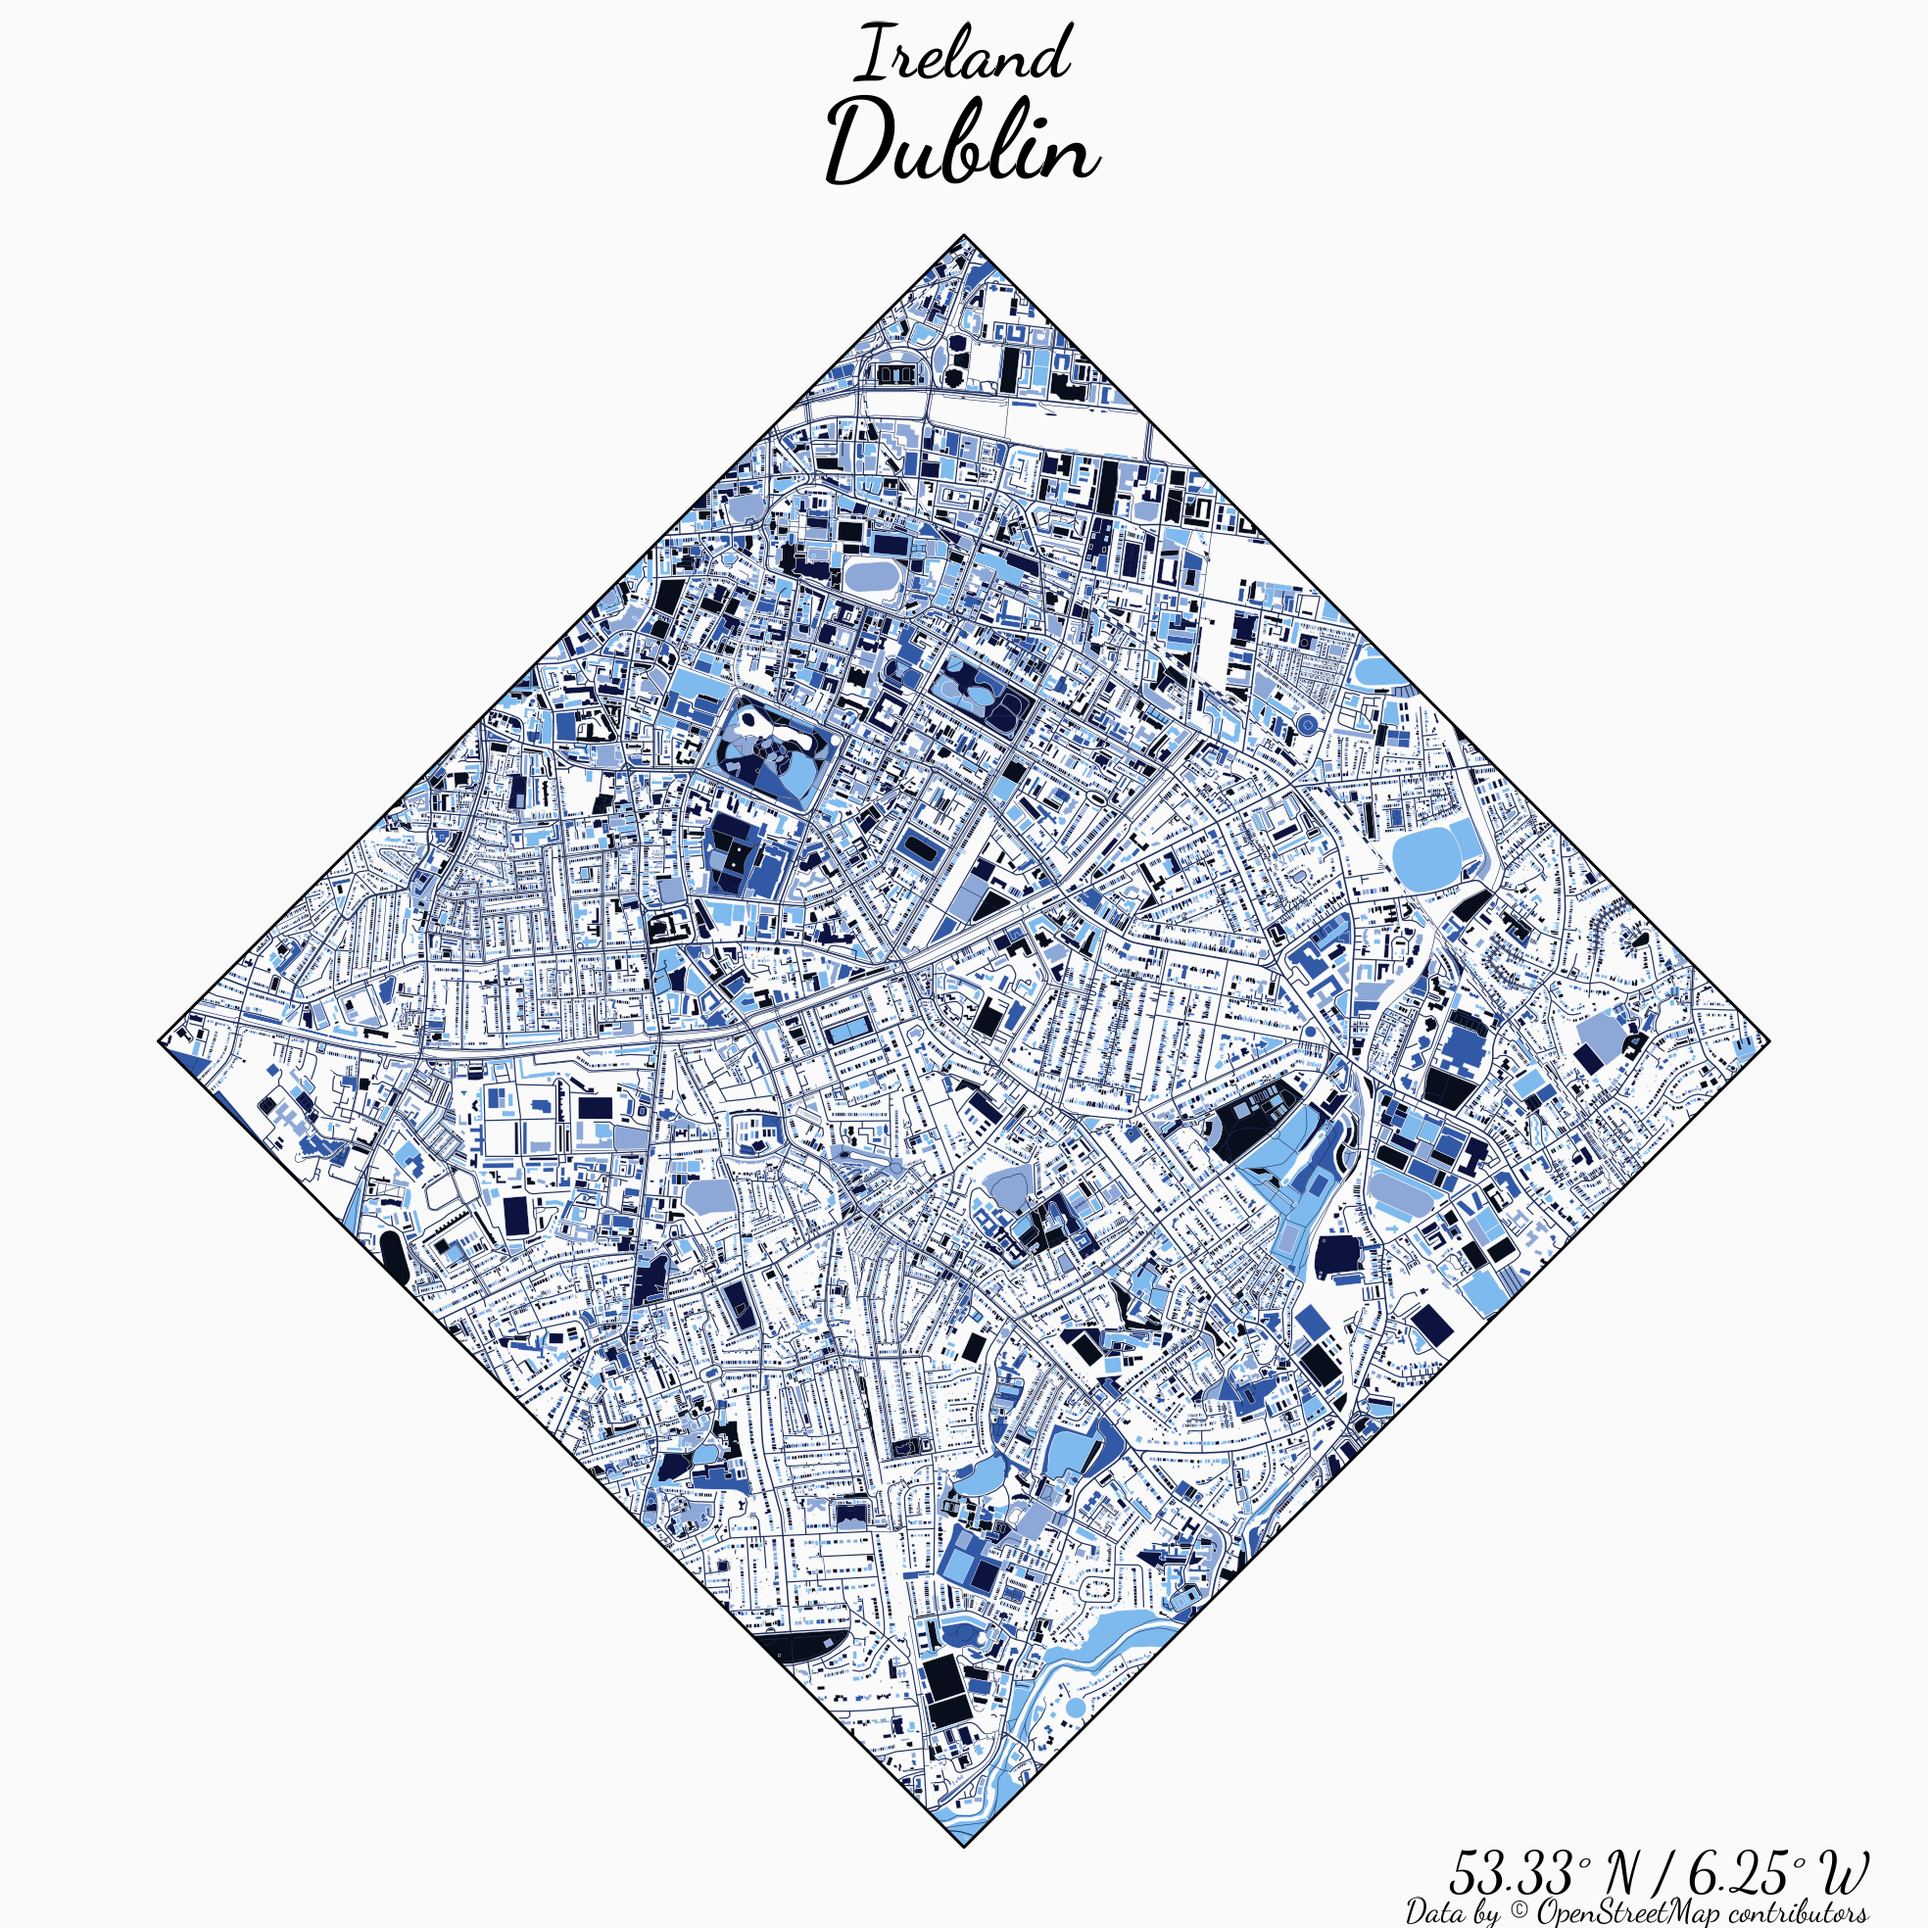
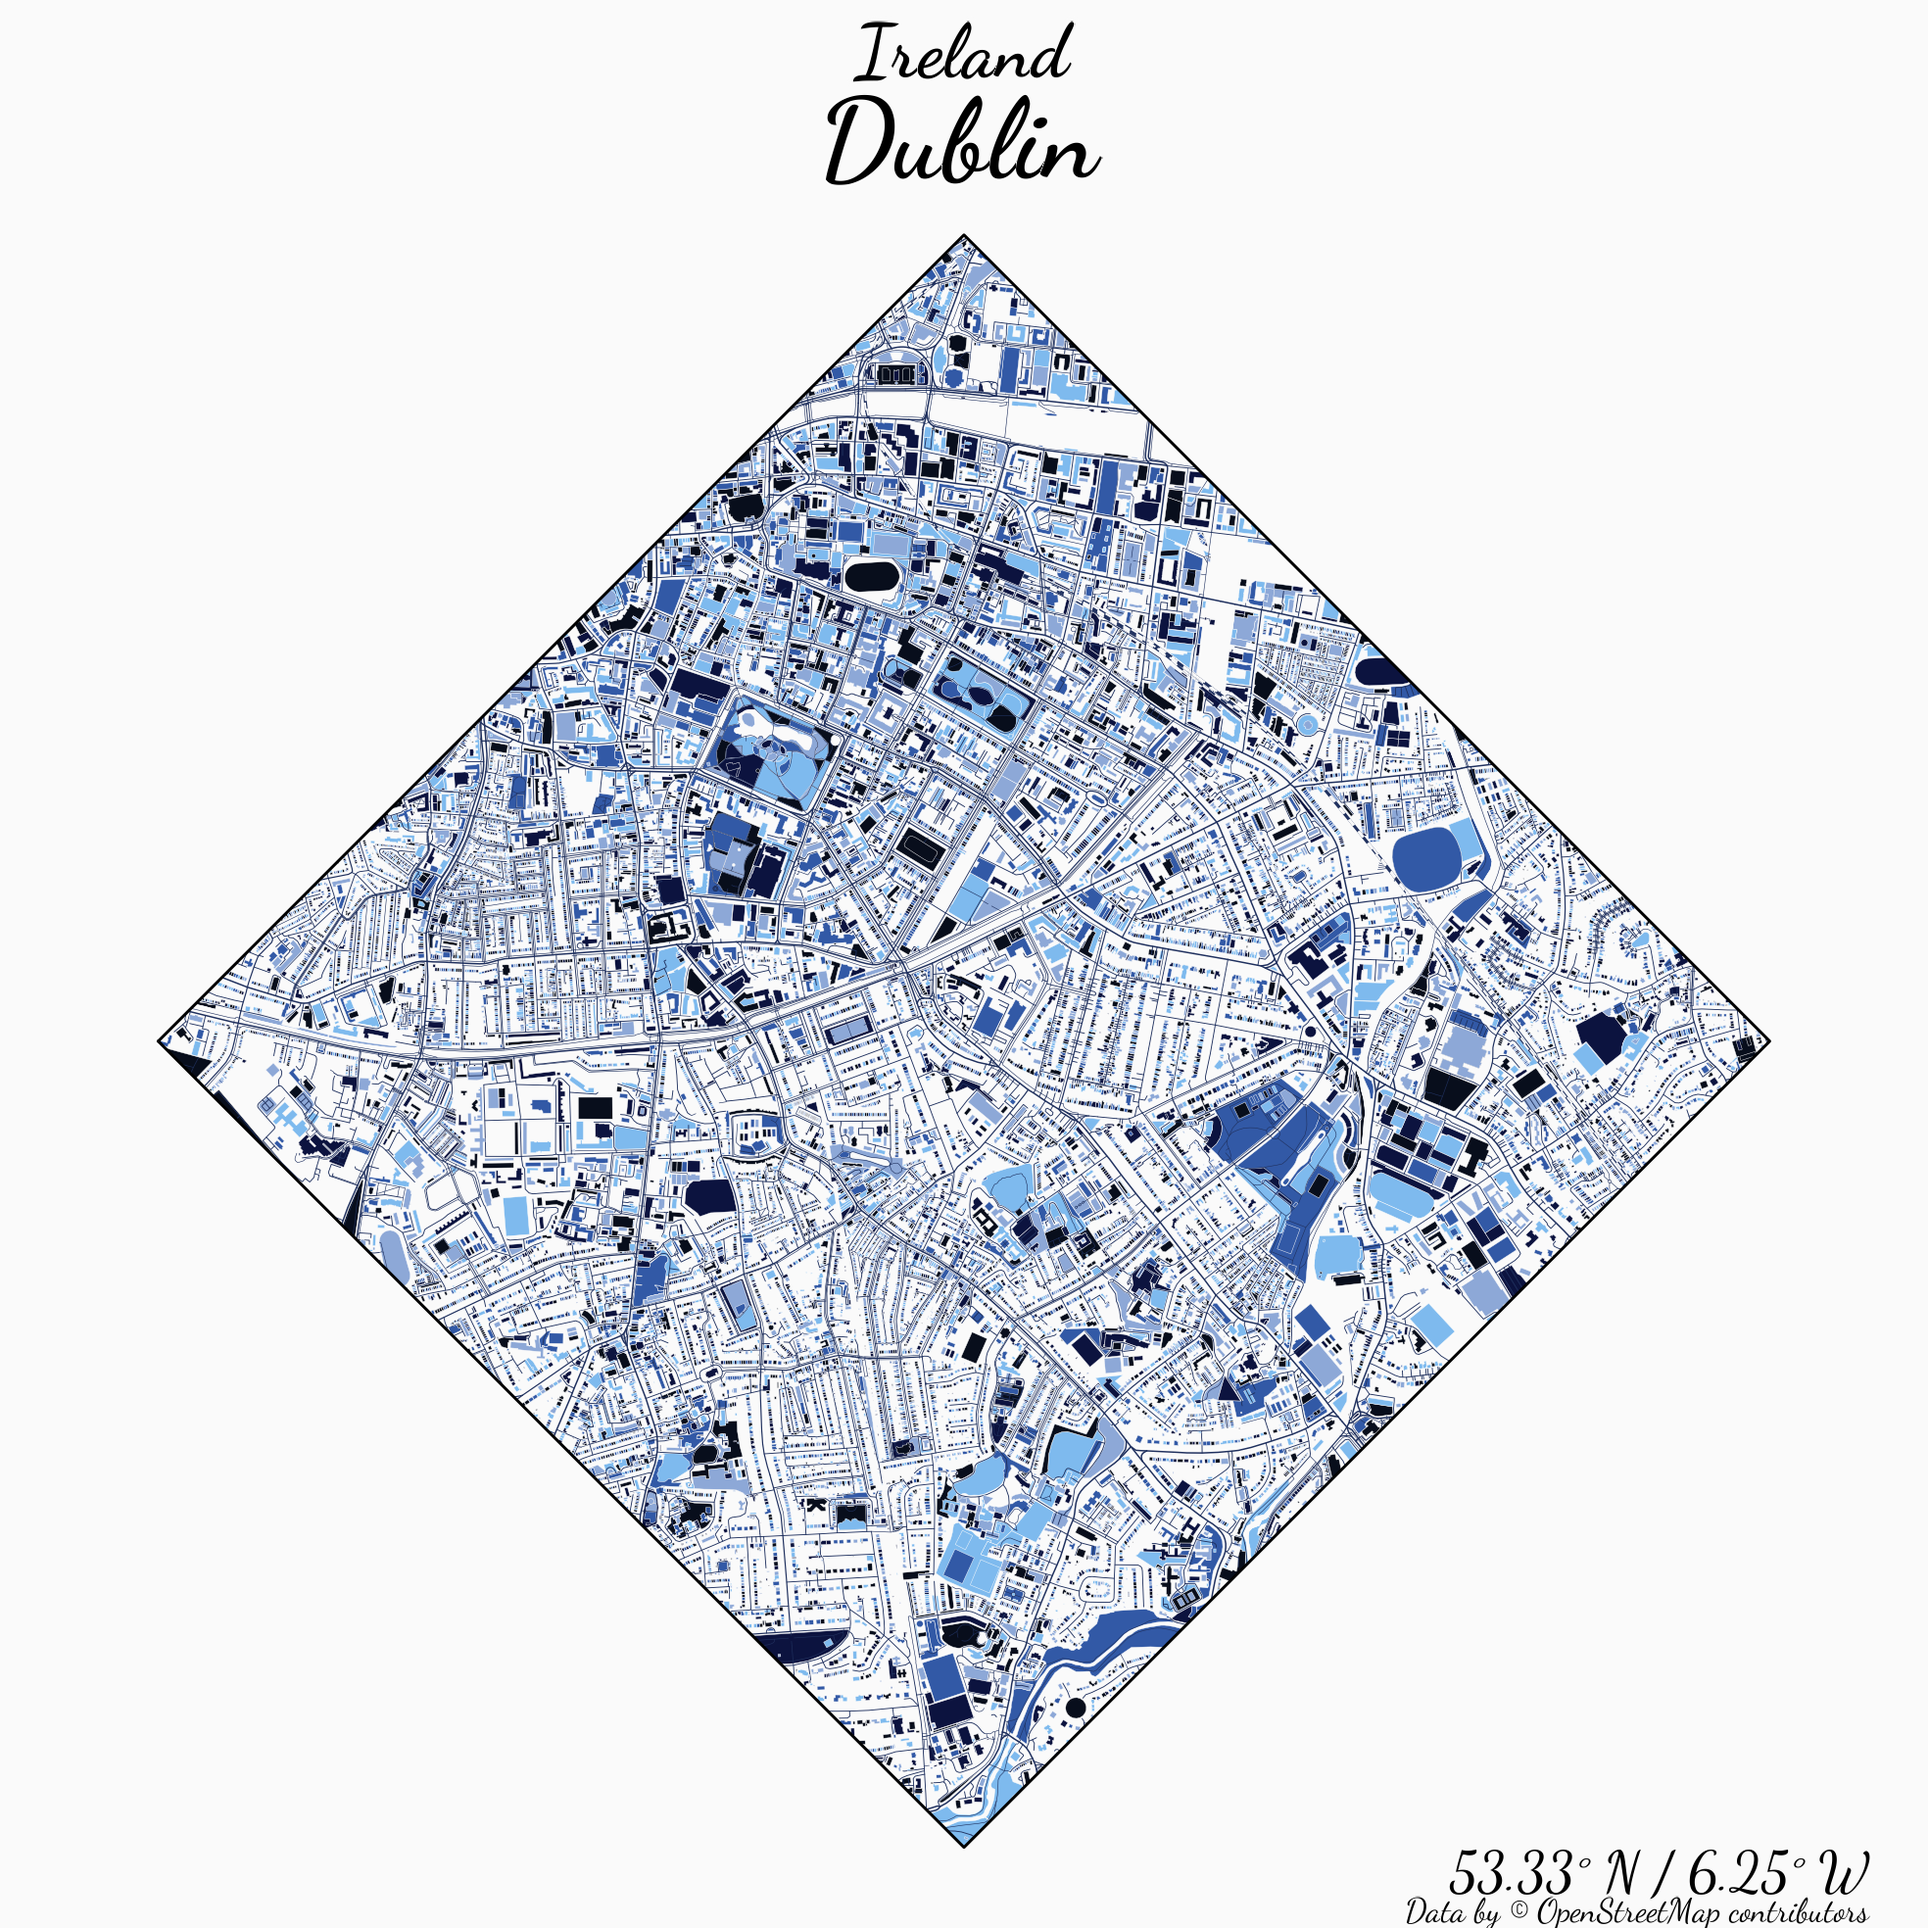
Update

Changed region(s): [[0.093, 0.124, 0.9299, 0.9299]]

diff --git a/README.md b/README.md
@@ -162,20 +162,20 @@ myTheme <- list(
   ),
   size = list(
     borders = list(
-      contours = 0.3,
+      contours = 0.15,
       water = 0.4,
       canal = 0.5,
       river = 0.6
     ),
     streets = list(
       path = 0.2,
-      residential = 0.4,
-      structure = 0.5,
-      tertiary = 0.7,
-      secondary = 0.8,
-      primary = 0.9,
-      motorway = 1,
-      rails = 0.75,
+      residential = 0.3,
+      structure = 0.35,
+      tertiary = 0.4,
+      secondary = 0.5,
+      primary = 0.6,
+      motorway = 0.8,
+      rails = 0.65,
       runway = 3
     )
   )
